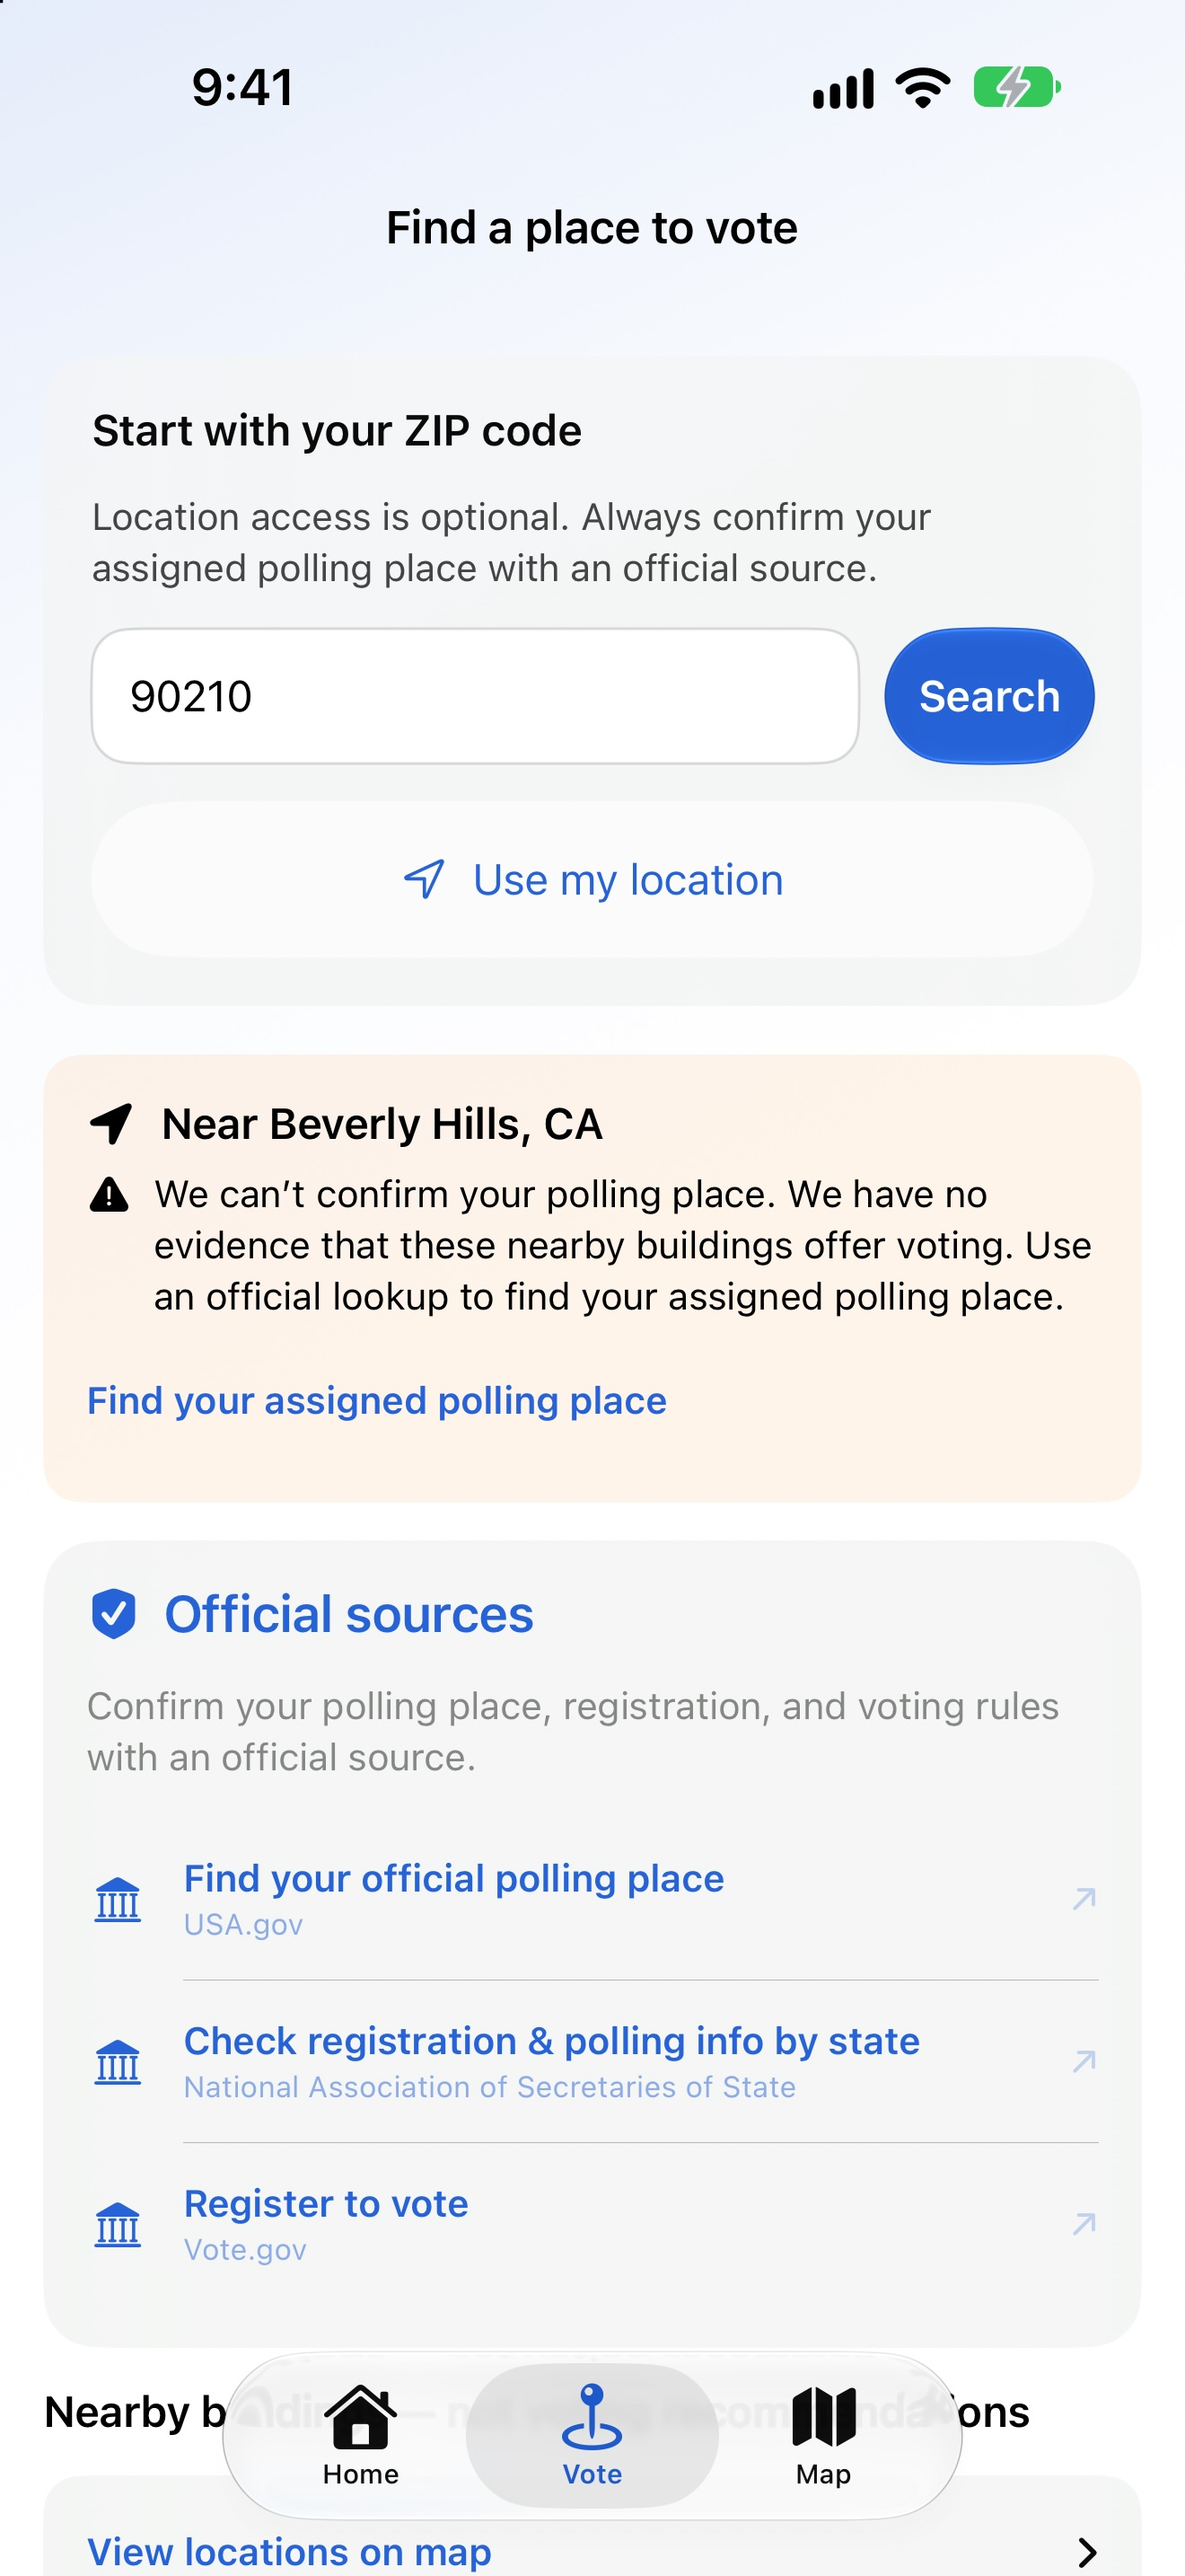
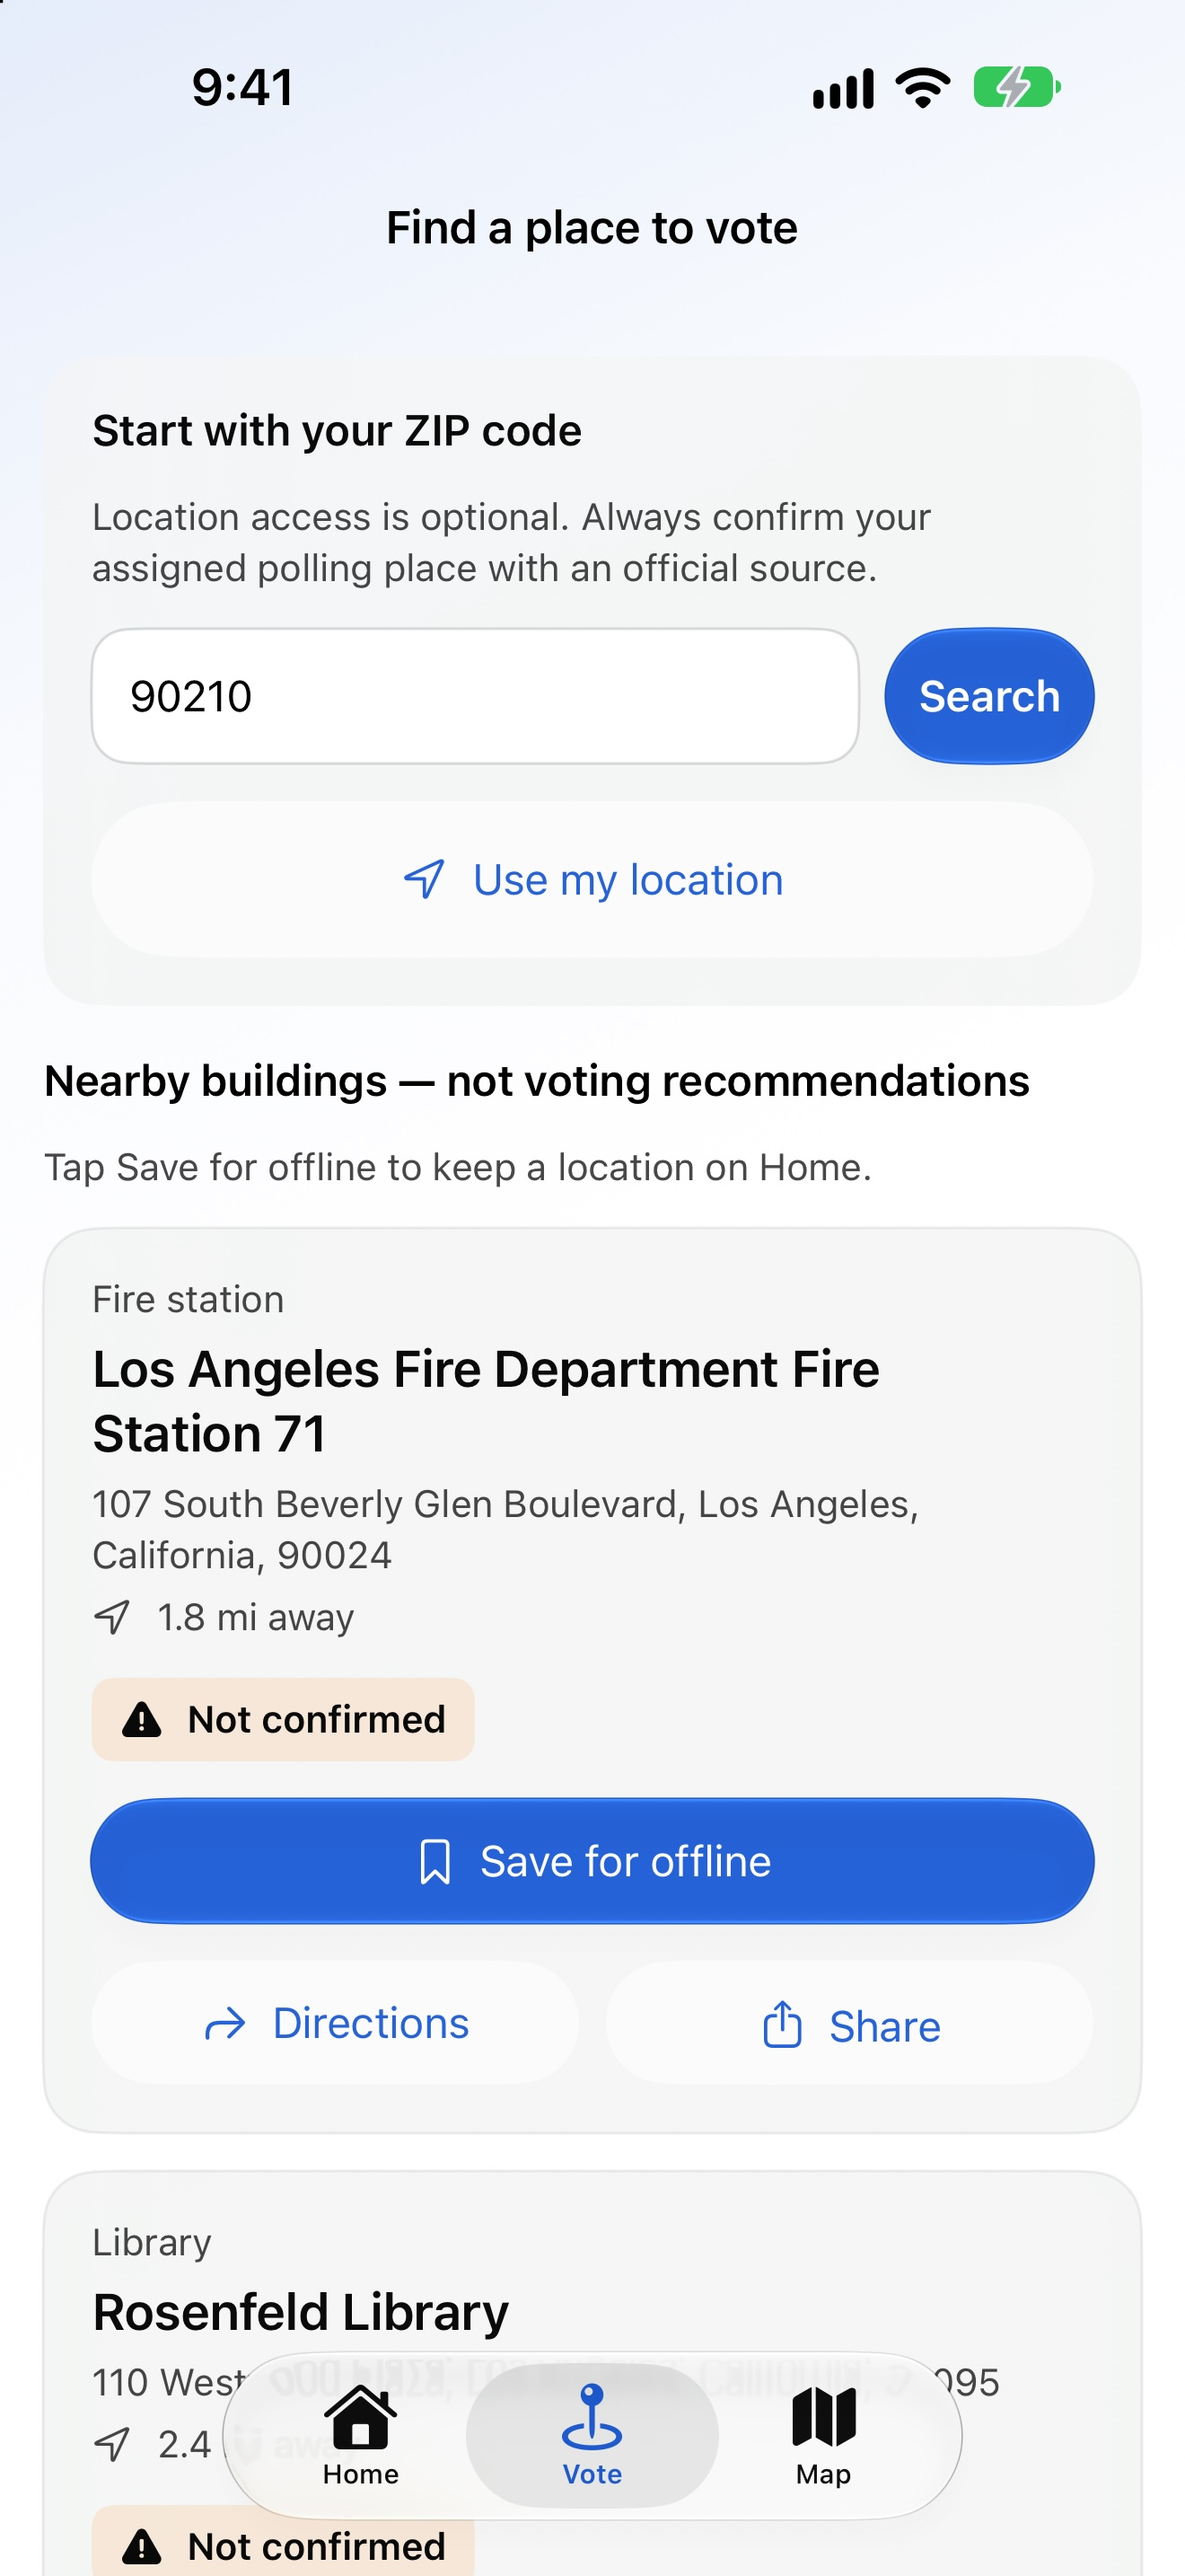
Record build 4 App Review submission and refreshed screenshots

diff --git a/docs/APP_REVIEW_BUILD_4.md b/docs/APP_REVIEW_BUILD_4.md
@@ -1,0 +1,72 @@
+# App Review preparation — build 4, November 2, 2026
+
+Source: clean merged main `b067f7753e18f9f17d9f8f26ace89d04fd21657a` (PR24).
+Version 1.0 (4). Results now precede the optional map, detailed warning and official links.
+Per-card, save and share trust warnings remain. Empty-result official guidance is unchanged.
+The owner explicitly authorized submission; public release remains manual.
+
+## Validation and upload
+
+Required local iOS 17.5 runner passed 80 tests: 66 unit, 12 smoke, notification allow/deny.
+Release fixture exclusions and widget family checks passed. The new smoke assertions verify
+that the first result is visible without scrolling and above the detailed warning.
+Main web CI 41589407350 passed. Native main CI 41589407365 and PR CI 41589117019 passed on iOS 26.5 / iPhone 17,
+including the mandatory runner, Release checks and widget registration. App/test/workflow
+source is identical between tested PR head 2bb72f1 and merged b067f77.
+
+Archive: `/private/tmp/Vote4U-main-b067f77-b4.xcarchive`.
+Export: `/private/tmp/vote4u-b4-export/Vote4U.ipa`.
[1 lines of base64/hex data omitted]
+Apple may repackage the upload; this identifies only the local IPA.
+Deep strict signature verification passed outside the keychain-restricted sandbox.
+App and widget are 1.0/4; app family iPhone, widget families iPhone/iPad; minimum iOS 17.
+Distribution profiles exclude development debugging and device restrictions.
+Privacy manifest parses; Release binaries exclude DEBUG polling fixtures and removed news UI.
+
+Initial export was blocked by Apple's updated Program License Agreement. The owner accepted
+it, then export succeeded. Upload completed November 2 at 22:28:30 PDT. App Store Connect
+processed build 4 to Ready to Submit, UUID `b40674e6-9ddd-4beb-968a-5bcdd3b70118`.
+Build 4 was selected and saved on version 1.0; manual release retained. Build 3 remains in
+the account. Submission is confirmed below.
+
+## Screenshots
+
+Four screenshots per size, ordered results, Home, Map, official links. Dimensions 1320x2868
+and 1206x2622, JPEG without alpha. Updated results/Home/official captures use production data,
+not DEBUG fixtures. Unchanged map captures were retained after visual inspection.
+Some headless captures omitted the status bar and were rejected. Device Hub captures fixed
+those images; only format conversion was applied, without compositing or retouching.
+All eight final assets were visually reviewed. Both sets were uploaded; a page reload
+verified four medium and four large screenshots in the correct order. Apple initially
+blocked Add for Review while screenshot processing was still pending.
+
+## Device evidence limits
+
+Owner tested build 3 on iPhone 15 / iOS 26.6: GPS after retracting the initial complaint,
+official links, saved-place relaunch in airplane mode, and Home Screen widget placement.
+Build 4 has not been physically tested. Delivered reminders, widget tap-to-open, a full
+large-text/dark-mode/VoiceOver pass, and unambiguous denied/revoked-location ZIP retest remain
+unconfirmed. Do not convert tentative owner observations into a complete physical QA pass.
+
+## App Privacy questionnaire
+
+Apple also blocked Add for Review because App Privacy had never been completed, despite
+the earlier owner report that privacy answers had been reviewed. Filled the four disclosures
+from the shipped manifest and conservative listing draft: precise location, coarse location,
+search history, other diagnostic data; all App Functionality, linked to identity, no tracking.
+The final Publish dialog requires an accuracy/compliance/update attestation. Owner explicitly approved Publish at action time; publication succeeded.
+Review notes were saved with the obsolete pre-submission retention-verification sentence
+replaced by a reference to the linked privacy policy. No new retention guarantee was asserted.
+
+## Confirmed submission
+
+App Store Connect confirmed **Waiting for Review** for iOS App 1.0 (4), submitted November 2,
+2026 at 22:54 PDT. Submission ID `91d5c0f0-0b9c-4a71-bb60-0730146525b2`.
+https://appstoreconnect.apple.com/apps/6821803665/distribution/reviewsubmissions/details/91d5c0f0-0b9c-4a71-bb60-0730146525b2
+
+App Privacy publication was confirmed before submission. Screenshot processing cleared,
+Add for Review succeeded, then Submit for Review returned “1 Item Submitted”. The detail
+page verified both the submission and build 1.0 (4) as Waiting for Review. Manual release
+was verified immediately before submission; no public release action was taken.
+Next: await Apple's review, address any review feedback, and obtain owner authorization
+for public release after approval. Physical-device evidence limits above remain unchanged.

diff --git a/HANDOFF.md b/HANDOFF.md
@@ -1,5 +1,45 @@
 # Vote4U — Handoff
 
+## Confirmed App Review submission — November 2, 2026, 22:54 PDT
+
+**Vote4U 1.0 (4) is Waiting for Review.** App Store Connect confirmed submission
+`91d5c0f0-0b9c-4a71-bb60-0730146525b2` for build4. This supersedes pending checkpoints below.
+Source: merged PR24 main `b067f7753e18f9f17d9f8f26ace89d04fd21657a`. Main/PR native CI passed
+on iOS26.5/iPhone17, local mandatory iOS17.5 runner passed80 tests; web CI passed.
+Both screenshot sizes are uploaded (four each) and processing cleared. App Privacy's four
+manifest-matching disclosures were published after explicit owner approval of Apple's
+accuracy/compliance/update attestation. Manual release remains selected; no public release.
+
+Next: await Apple review; respond to any feedback. Public release needs separate owner
+authorization after approval. The device evidence limits in the November2 report remain:
+build4 not physically tested, full accessibility/reminder delivery checks unconfirmed.
+Evidence: `docs/APP_REVIEW_BUILD_4.md` in `/private/tmp/vote4u-app-review-main`, branch
+`docs/app-review-build-4`. Preserve the unrelated original root-checkout changes.
+
+
+## Release status — November 2, 2026: build 4 prepared, privacy attestation pending
+
+PR24 merged at `b067f7753e18f9f17d9f8f26ace89d04fd21657a`. Build 1.0 (4) archived from
+clean merged main, signed/exported/uploaded, processed to Ready to Submit, selected and saved
+on App Store version 1.0. Owner accepted Apple's updated Program License Agreement.
+Main native CI41589407365 and PR native CI41589117019 passed on iOS26.5/iPhone17; main web
+CI41589407350 passed. Required local iOS17.5 runner passed80 tests. Both screenshot sets
+uploaded and verified after reload (four medium, four large, results/Home/Map/official links).
+
+**Not yet submitted.** Add for Review initially reported screenshot processing and missing
+App Privacy. Filled all four categories matching shipped manifest: precise/coarse location,
+search history, other diagnostics; linked, App Functionality, no tracking. Apple final Publish
+asks for agreement that responses are accurate, comply with law and will be updated. Asked
+owner for action-time confirmation; dialog is open. After approval, Publish, return to version,
+retry Add for Review, submit, and verify Waiting for Review. Existing submission authorization
+persists. Public release remains manual. No new retention verification has been claimed.
+
+Evidence worktree `/private/tmp/vote4u-app-review-main`, branch `docs/app-review-build-4`.
+See `docs/APP_REVIEW_BUILD_4.md` there for archive/hash/device limits and failures. Pending
+changes include six screenshot replacements and review-note cleanup in `ios/APP_STORE.md`.
+Commit/push evidence PR after final submission result. Root unrelated changes are preserved.
+
+
 ## Current handoff — November 2, 2026 (phone feedback and results layout)
 
 This checkpoint supersedes the older authorization and physical-device status below.

diff --git a/ios/APP_STORE.md b/ios/APP_STORE.md
@@ -133,8 +133,7 @@ Location is optional and used to resolve the user's ZIP code and find nearby
 locations, with distances measured from the rounded device position. Coordinates are rounded to roughly 110 metres
 before leaving the device. They are sent to our server and OpenStreetMap for
 ZIP resolution and nearby-building searches, are cached by Vercel and Neon, and
-can appear in Vercel request logs. Hosting and database retention details
-are being verified before submission. If the user declines the permission, ZIP code entry remains
+can appear in Vercel request logs. Data handling is described in the linked privacy policy. If the user declines the permission, ZIP code entry remains
 fully available — you can test the whole app without granting location.
 
 NOTIFICATIONS
@@ -160,9 +159,10 @@ and cache findings in OPUS-6/11/12 are fixed. This copy describes the keyless ca
 
 ## Privacy nutrition labels (App Store Connect → App Privacy)
 
-Proposed answer: **"Yes, we collect data from this app"**. The following are conservative
-draft disclosures for owner review, not approved or saved App Store Connect answers.
-Confirm actual host retention and linkage before finalizing them:
+**Published November 2, 2026 with explicit owner approval:** "Yes, we collect data from this app".
+The four disclosures below match the shipped privacy manifest. They conservatively declare
+identity linkage; publication does not establish a new host-retention audit. See
+`docs/APP_REVIEW_BUILD_4.md` for submission evidence:
 
 | Data type | Linked to identity | Used for tracking | Purpose |
 |---|---|---|---|
